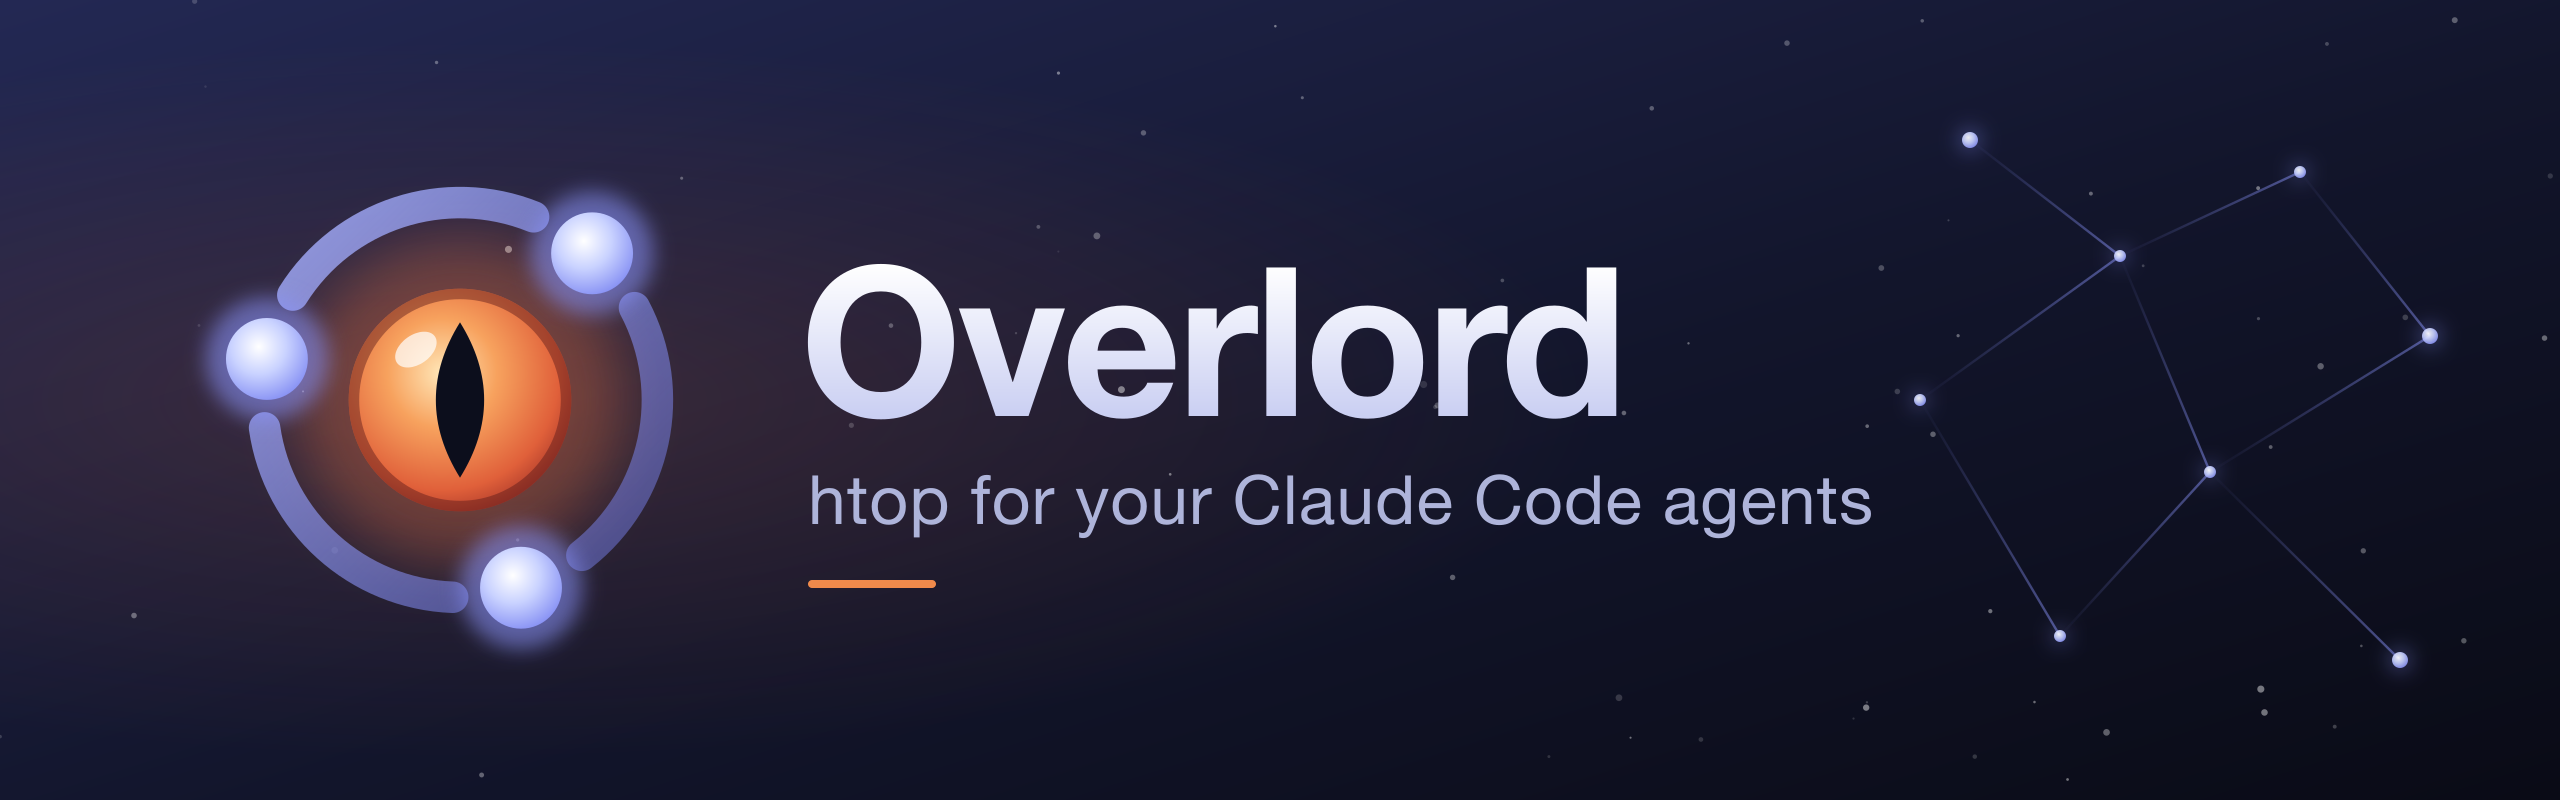
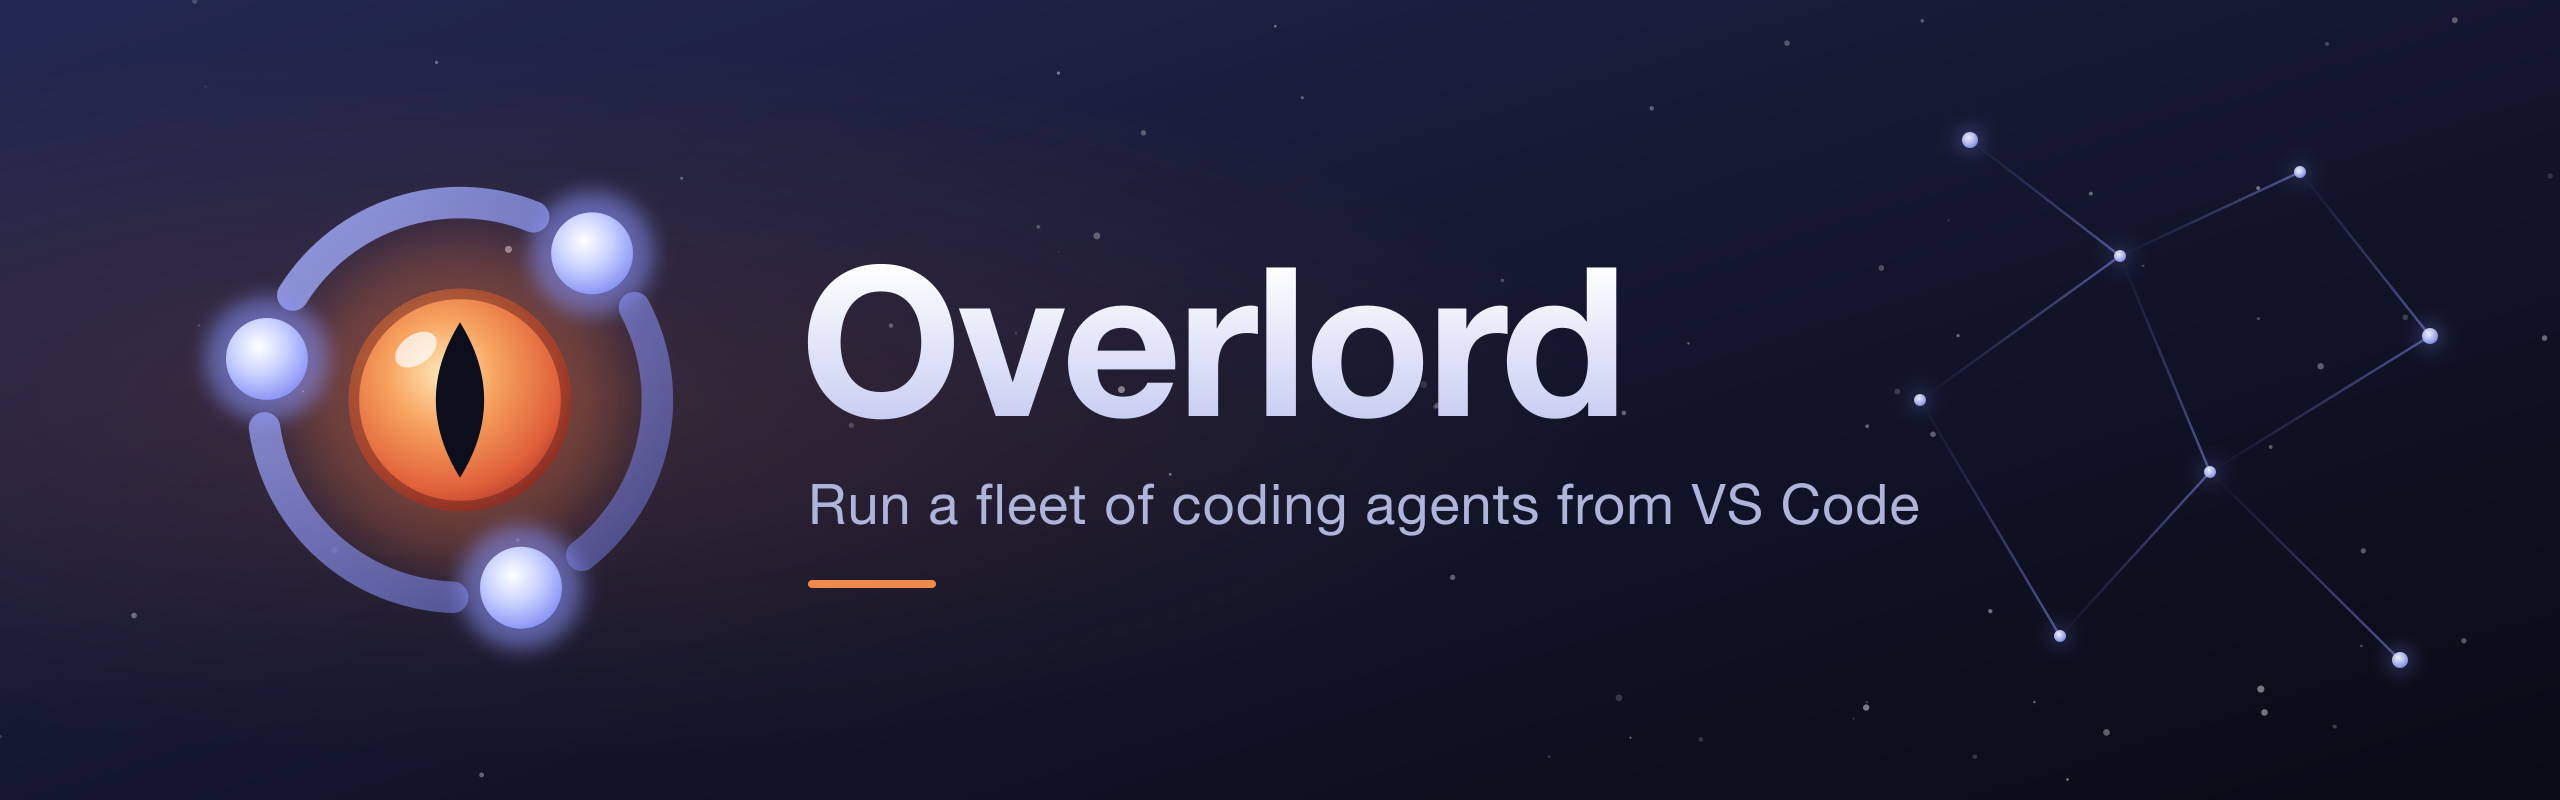
Change the tagline to "Run a fleet of coding agents from VS Code"
Overlord launches, coordinates and lands agents now, and it is adding
Copilot and Codex, so "htop for Claude Code" undersold it. Update the
banner, README, Marketplace description and help page.

Changed region(s): [[0.3125, 0.5938, 0.75, 0.6875]]

diff --git a/webview/src/views/help-view.tsx b/webview/src/views/help-view.tsx
@@ -390,9 +390,9 @@ export function HelpView(): ReactElement {
         <SearchBox query={query} onChange={setQuery} />
       </header>
       <p className="help-lede">
-        Overlord is htop for Claude Code. It shows every session and subagent you have running, what
-        is in their context, and every knob you can turn. It also runs agents itself, so you can
-        launch a batch of prompts and watch them side by side.
+        Overlord runs a fleet of coding agents from VS Code. It launches a batch of prompts side by
+        side, each in its own git worktree, and shows every session and subagent you have running,
+        what is in their context, and every knob you can turn.
       </p>
       <Contents shown={shown} />
       {shown?.size === 0 ? (

diff --git a/README.md b/README.md
@@ -1,12 +1,12 @@
 # Overlord
 
-![Overlord: htop for your Claude Code agents](media/banner.png)
+![Overlord: run a fleet of coding agents from VS Code](media/banner.png)
 
 SkyNet version 1.0, let it begin.
 
-Overlord is a VS Code extension that works like htop for Claude Code. It shows every running
-session and subagent, what is in each one's context and why, and every knob you can turn. It
-also runs agents itself, so you can launch a batch of prompts and watch them side by side.
+Overlord is a VS Code extension for running a fleet of coding agents. It launches a batch of
+prompts side by side, each in its own git worktree, and shows every running session and
+subagent, what is in each one's context and why, and every knob you can turn.
 
 See [PLAN.md](PLAN.md) for the full design and the decisions behind it.
 
